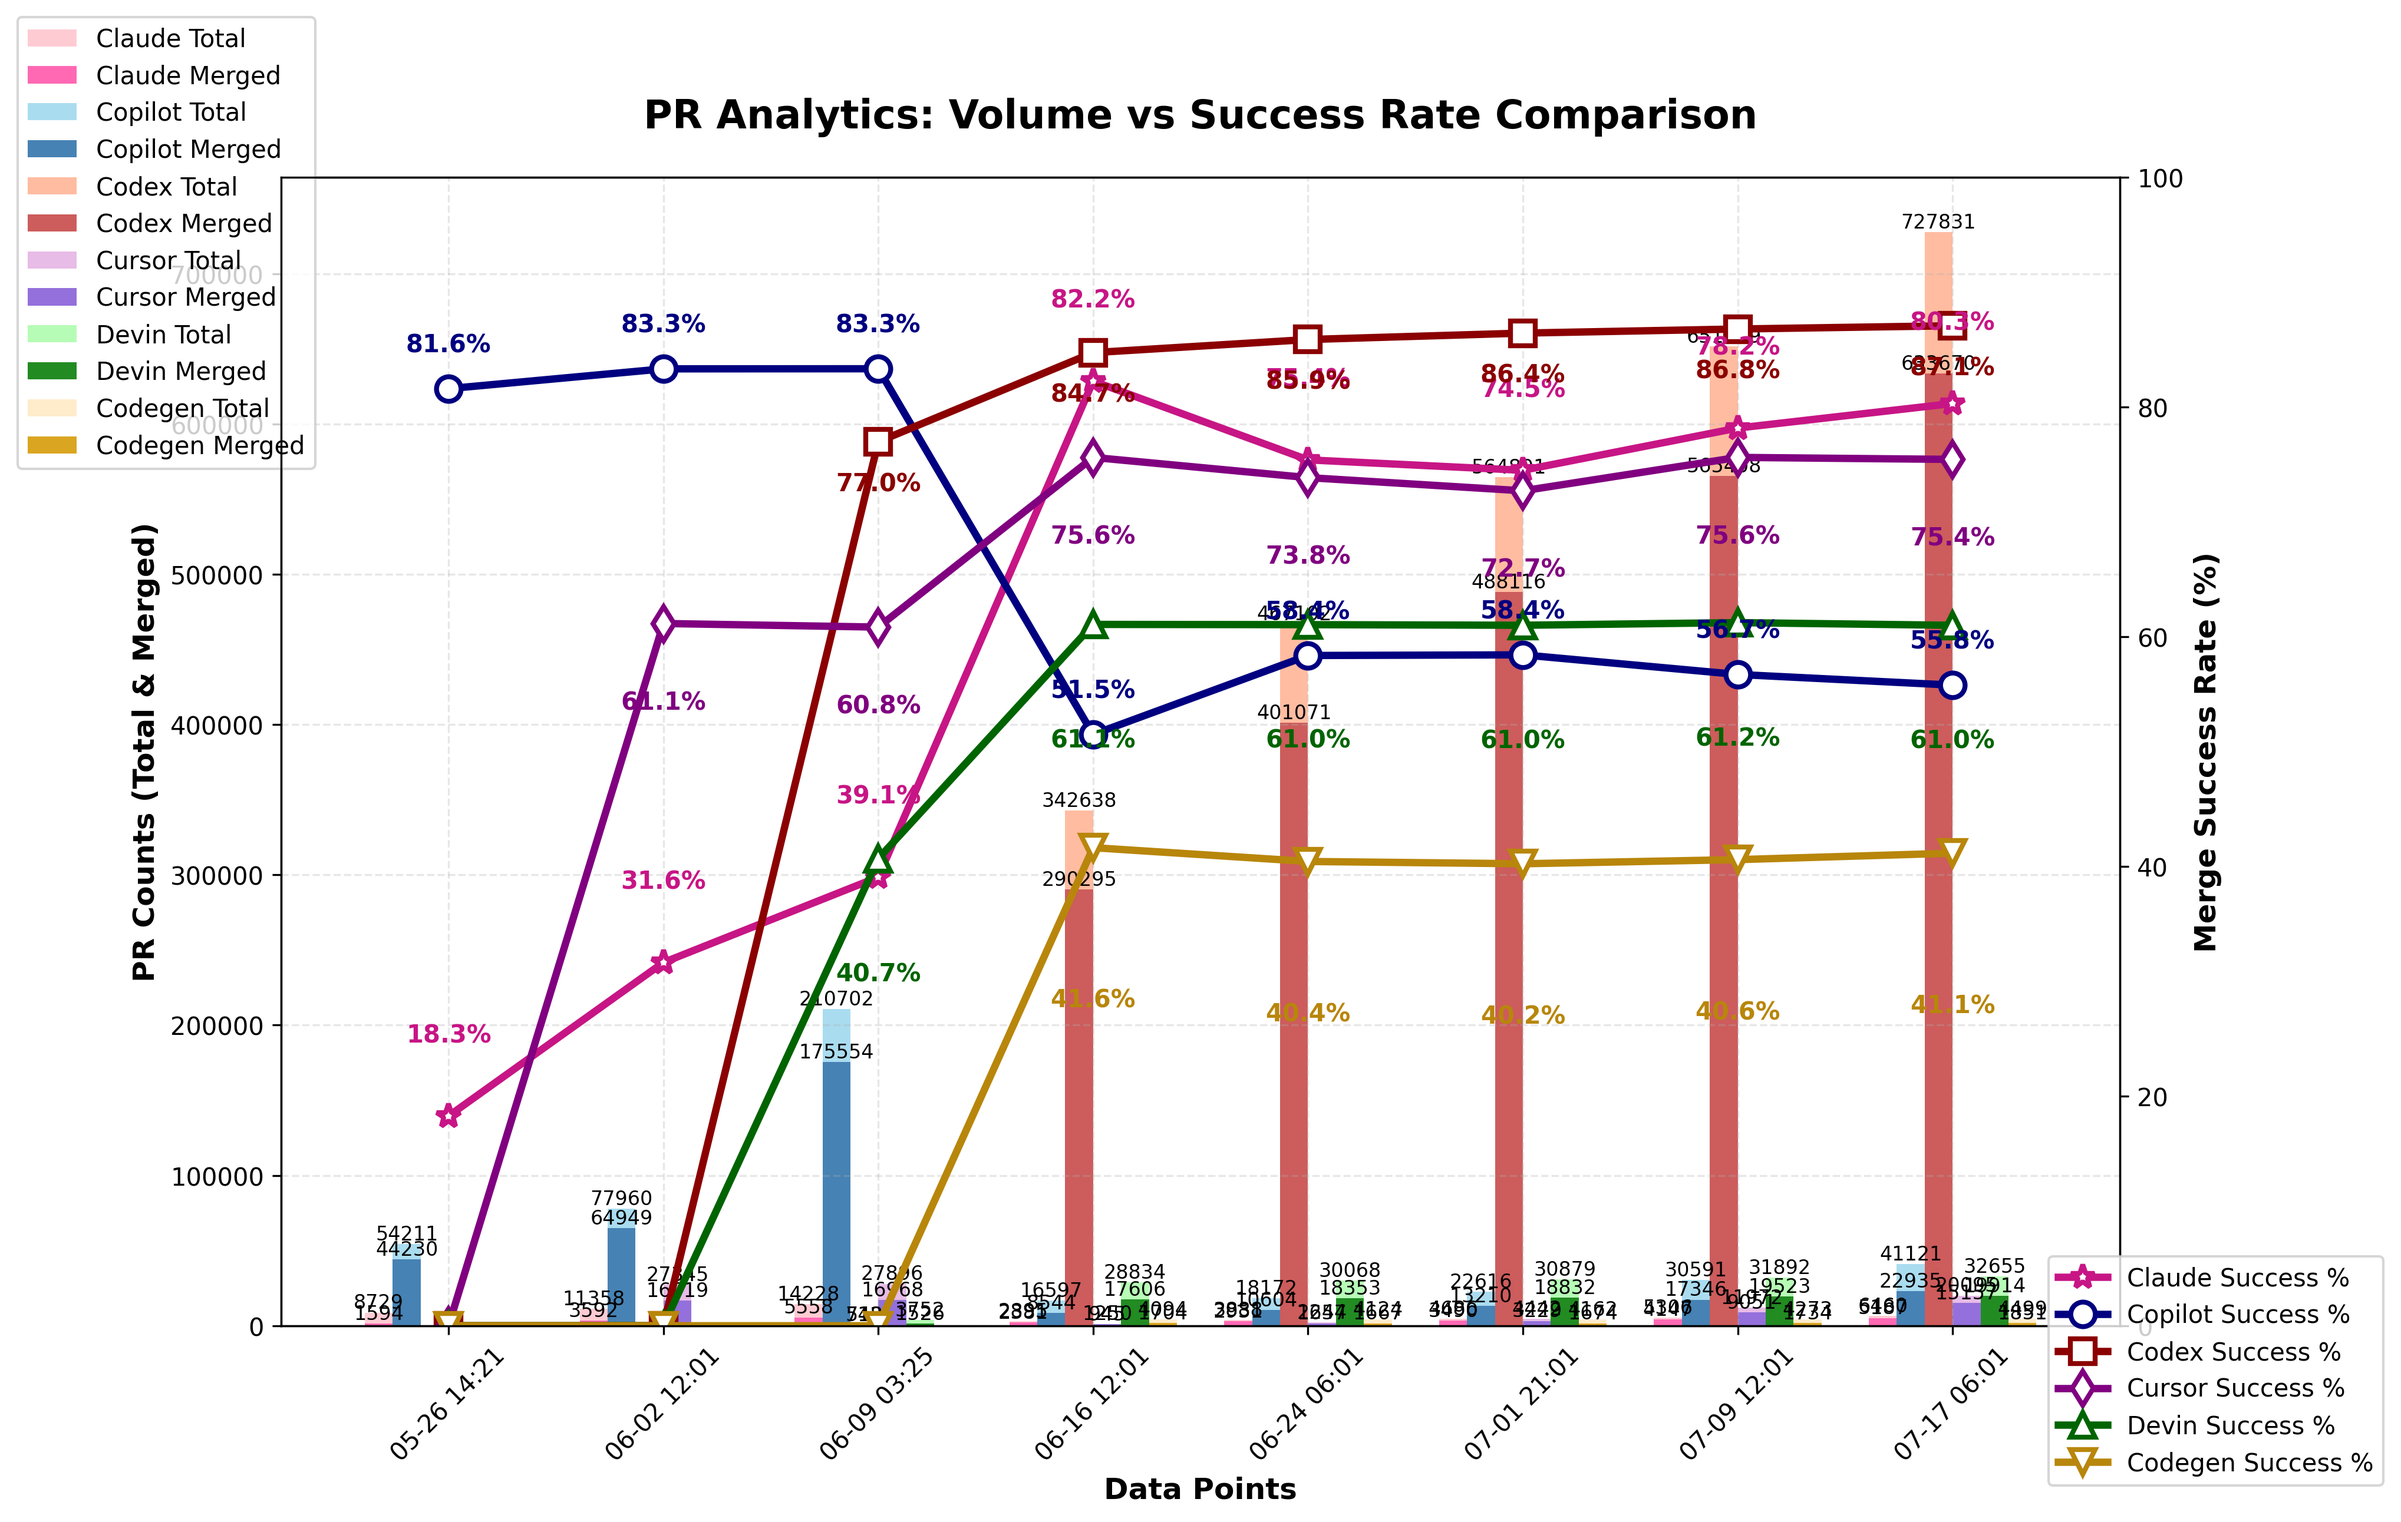
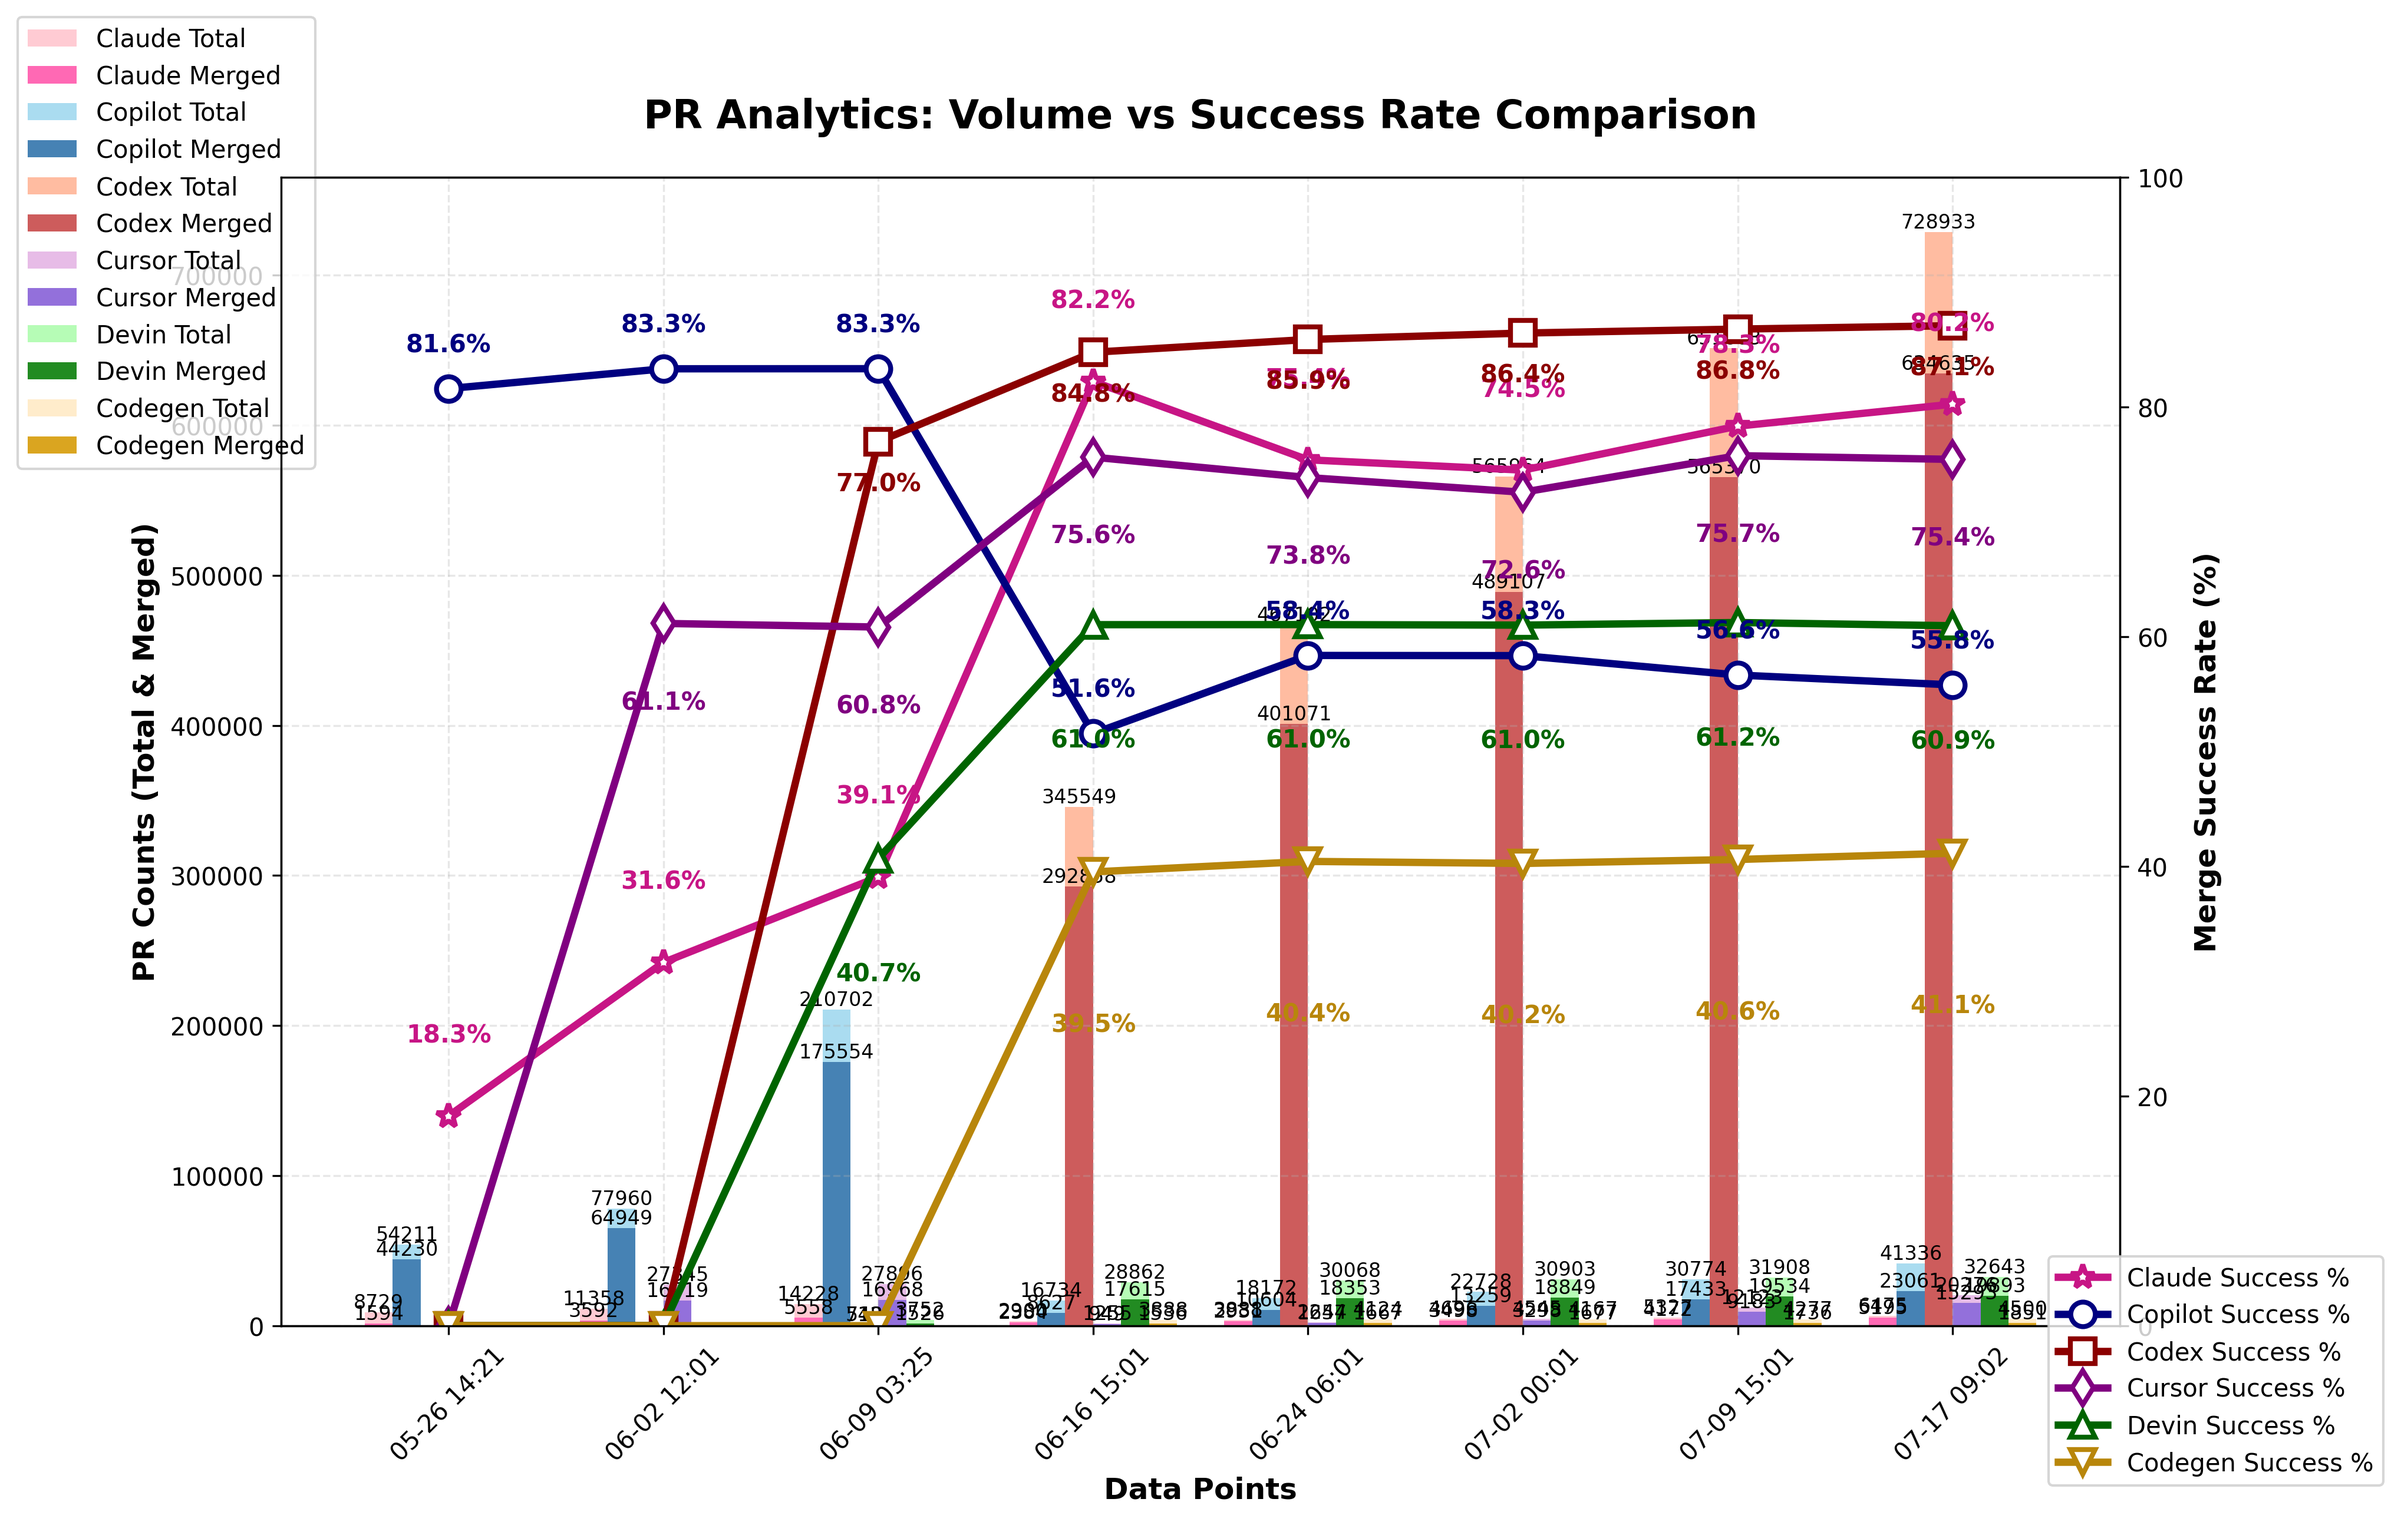
chore: update PR‑approval chart

diff --git a/docs/index.html b/docs/index.html
@@ -367,7 +367,7 @@
 
       <footer>
         <p>
-          Last updated: <span id="last-updated">July 17, 2025 06:01 UTC</span>
+          Last updated: <span id="last-updated">July 17, 2025 09:02 UTC</span>
         </p>
         <p>
           <a href="https://github.com/aavetis/ai-pr-watcher">View on GitHub</a>

diff --git a/README.md b/README.md
@@ -27,9 +27,9 @@ Explore the GitHub search queries used:
 
 | Project | Total PRs | Merged PRs | Merge Rate |
 | ------- | --------- | ---------- | ---------- |
-| Claude  | 6,460 | 5,187 | 80.29% |
-| Copilot | 41,121 | 22,935 | 55.77% |
-| Codex   | 727,831 | 633,670 | 87.06% |
-| Cursor  | 20,095 | 15,157 | 75.43% |
-| Devin   | 32,655 | 19,914 | 60.98% |
-| Codegen | 4,499.0 | 1,851.0 | 41.14% |
+| Claude  | 6,475 | 5,195 | 80.23% |
+| Copilot | 41,336 | 23,061 | 55.79% |
+| Codex   | 728,933 | 634,635 | 87.06% |
+| Cursor  | 20,276 | 15,293 | 75.42% |
+| Devin   | 32,643 | 19,893 | 60.94% |
+| Codegen | 4,500.0 | 1,851.0 | 41.13% |
